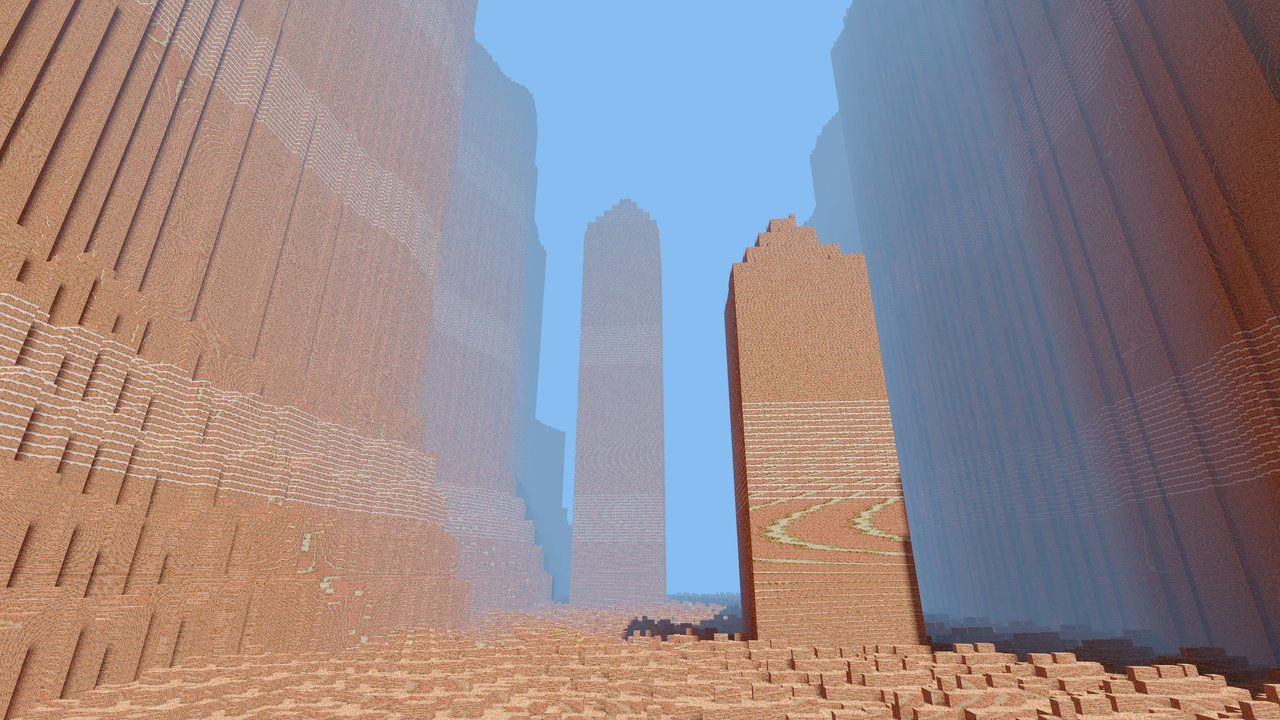
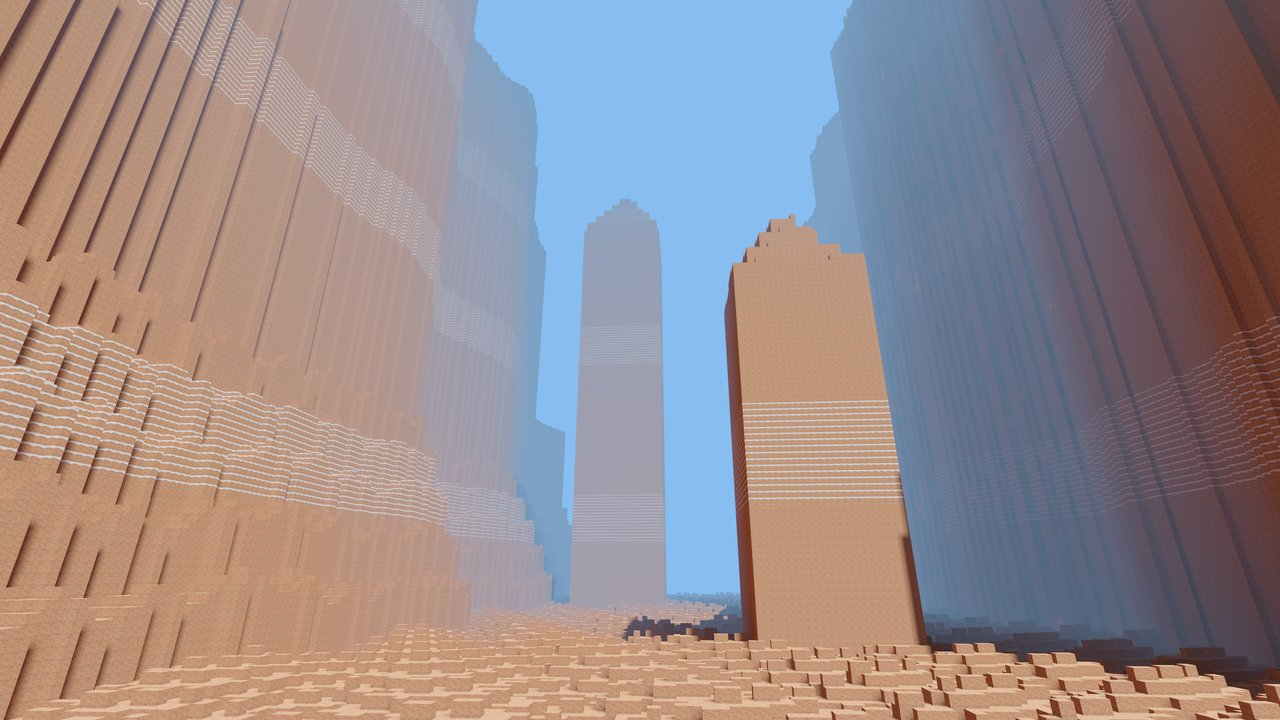
feat(bvw): mipmapped, anisotropic block texture arrays
prepare_texture_array now builds each layer's full mip chain (8-bit RGBA;
sRGB box-filtered in linear light, so distant faces keep their
brightness) and sets 8x anisotropic filtering. Without mips the 256 px
per-face textures aliased into moire and sparkle on anything more than a
few voxels away. It also drops COPY_DST from the texture: Bevy 0.19's
same-descriptor update writes the whole buffer into mip 0, so a reload
must recreate the texture with every level (asteroids-redux 3aa4e1f
found this). texture_array_ready also requires the mip chain, so the
lab's refresh prepares once.

Verification: new unit test (level 0 of every layer unchanged, 3 levels
for 4x4, a black/white checker averages to sRGB 188, idempotent,
COPY_DST removed); BVW lib tests with --include-ignored (8, including the
native material regression); lab tests (34). Canyon, headless 1440p on
the M4: the moire on the floor and walls is gone, frame p50 22.1 -> 21.9
ms, fixed GPU 3.45 -> 3.54 ms. README cave and canyon images
re-captured with mipmaps.

diff --git a/crates/voxel_gi_bvw/src/material.rs b/crates/voxel_gi_bvw/src/material.rs
@@ -7,8 +7,8 @@ use bevy::pbr::{
 };
 use bevy::prelude::*;
 use bevy::render::render_resource::{
-    AsBindGroup, RenderPipelineDescriptor, SpecializedMeshPipelineError, TextureViewDescriptor,
-    TextureViewDimension,
+    AsBindGroup, RenderPipelineDescriptor, SpecializedMeshPipelineError, TextureDataOrder,
+    TextureFormat, TextureUsages, TextureViewDescriptor, TextureViewDimension,
 };
 use bevy::shader::ShaderRef;
 use bevy_voxel_world::rendering::vertex_layout;
@@ -101,8 +101,12 @@ pub fn material_template(
     }
 }
 
+/// Whether `prepare_texture_array` has already prepared `image` for `layers`
+/// (check before mutably borrowing the asset, which would reupload it).
 pub fn texture_array_ready(image: &Image, layers: u32) -> bool {
     image.texture_descriptor.size.depth_or_array_layers == layers
+        && (image.texture_descriptor.mip_level_count > 1
+            || !mipmapped(image.texture_descriptor.format))
         && image
             .texture_view_descriptor
             .as_ref()
@@ -113,6 +117,10 @@ pub fn texture_array_ready(image: &Image, layers: u32) -> bool {
                 && sampler.address_mode_w == ImageAddressMode::Repeat)
 }
 
+/// Reinterprets a vertically stacked image as a `layers`-layer 2D array with
+/// repeat addressing, a full mip chain (8-bit RGBA formats; sRGB averaged in
+/// linear light) and 8x anisotropic filtering, so distant and grazing faces
+/// do not alias.
 pub fn prepare_texture_array(
     image: &mut Image,
     layers: u32,
@@ -142,16 +150,184 @@ pub fn prepare_texture_array(
     descriptor.address_mode_u = ImageAddressMode::Repeat;
     descriptor.address_mode_v = ImageAddressMode::Repeat;
     descriptor.address_mode_w = ImageAddressMode::Repeat;
+    descriptor.set_anisotropic_filter(8);
     image.texture_view_descriptor = Some(TextureViewDescriptor {
         dimension: Some(TextureViewDimension::D2Array),
         ..default()
     });
+    let format = image.texture_descriptor.format;
+    if image.texture_descriptor.mip_level_count == 1 && mipmapped(format) {
+        let size = image.texture_descriptor.size;
+        if let Some((data, levels)) = image.data.as_deref().and_then(|base| {
+            mip_chain(
+                base,
+                size.width,
+                size.height,
+                layers,
+                format == TextureFormat::Rgba8UnormSrgb,
+            )
+        }) {
+            image.data = Some(data);
+            image.data_order = TextureDataOrder::LayerMajor;
+            image.texture_descriptor.mip_level_count = levels;
+            // Bevy 0.19 updates a same-descriptor COPY_DST texture by writing
+            // the whole buffer into mip 0. Without COPY_DST a reload recreates
+            // the texture with every level (wgpu adds COPY_DST for creation).
+            image
+                .texture_descriptor
+                .usage
+                .remove(TextureUsages::COPY_DST);
+        }
+    }
     Ok(())
+}
+
+fn mipmapped(format: TextureFormat) -> bool {
+    matches!(
+        format,
+        TextureFormat::Rgba8Unorm | TextureFormat::Rgba8UnormSrgb
+    )
+}
+
+/// Every layer's full mip chain, layer-major (layer 0's levels, then layer
+/// 1's), box-filtered from level 0; colour in linear light when `srgb`.
+fn mip_chain(
+    base: &[u8],
+    width: u32,
+    height: u32,
+    layers: u32,
+    srgb: bool,
+) -> Option<(Vec<u8>, u32)> {
+    let layer_bytes = width as usize * height as usize * 4;
+    if width == 0 || height == 0 || base.len() != layer_bytes * layers as usize {
+        return None;
+    }
+    let decode: [f32; 256] = std::array::from_fn(|v| {
+        let c = v as f32 / 255.0;
+        if !srgb {
+            c
+        } else if c <= 0.04045 {
+            c / 12.92
+        } else {
+            ((c + 0.055) / 1.055).powf(2.4)
+        }
+    });
+    let encode = |c: f32| {
+        let c = c.clamp(0.0, 1.0);
+        let c = if !srgb {
+            c
+        } else if c <= 0.003_130_8 {
+            c * 12.92
+        } else {
+            1.055 * c.powf(1.0 / 2.4) - 0.055
+        };
+        (c * 255.0 + 0.5) as u8
+    };
+    let levels = width.max(height).ilog2() + 1;
+    let mut out = Vec::with_capacity(base.len() * 4 / 3 + 4 * layers as usize);
+    for layer in base.chunks_exact(layer_bytes) {
+        out.extend_from_slice(layer);
+        let (mut w, mut h) = (width, height);
+        let mut previous = layer.to_vec();
+        while w > 1 || h > 1 {
+            let (nw, nh) = ((w / 2).max(1), (h / 2).max(1));
+            let mut next = vec![0u8; nw as usize * nh as usize * 4];
+            for y in 0..nh {
+                for x in 0..nw {
+                    let texels = [
+                        (2 * x, 2 * y),
+                        (2 * x + 1, 2 * y),
+                        (2 * x, 2 * y + 1),
+                        (2 * x + 1, 2 * y + 1),
+                    ]
+                    .map(|(sx, sy)| ((sx.min(w - 1) + sy.min(h - 1) * w) * 4) as usize);
+                    let at = ((x + y * nw) * 4) as usize;
+                    for channel in 0..4 {
+                        // Alpha is linear coverage in either format.
+                        if channel == 3 || !srgb {
+                            let sum: u32 =
+                                texels.iter().map(|t| previous[t + channel] as u32).sum();
+                            next[at + channel] = ((sum + 2) / 4) as u8;
+                        } else {
+                            let sum: f32 = texels
+                                .iter()
+                                .map(|t| decode[previous[t + channel] as usize])
+                                .sum();
+                            next[at + channel] = encode(sum / 4.0);
+                        }
+                    }
+                }
+            }
+            out.extend_from_slice(&next);
+            previous = next;
+            (w, h) = (nw, nh);
+        }
+    }
+    Some((out, levels))
 }
 
 #[cfg(test)]
 mod tests {
     use super::*;
+
+    #[test]
+    fn texture_array_gets_a_linear_light_mip_chain_and_stays_prepared() {
+        use bevy::asset::RenderAssetUsages;
+        // Four 4x4 layers stacked vertically; layer 2 is a black/white checker.
+        let mut image = Image::new_fill(
+            wgpu::Extent3d {
+                width: 4,
+                height: 16,
+                depth_or_array_layers: 1,
+            },
+            wgpu::TextureDimension::D2,
+            &[0, 0, 0, 255],
+            TextureFormat::Rgba8UnormSrgb,
+            RenderAssetUsages::default(),
+        );
+        let source: Vec<u8> = (0..64u32)
+            .flat_map(|texel| {
+                let (layer, x, y) = (texel / 16, texel % 4, texel / 4 % 4);
+                let v = if layer == 2 {
+                    255 * ((x + y) % 2) as u8
+                } else {
+                    layer as u8 * 60
+                };
+                [v, v, v, 255]
+            })
+            .collect();
+        image.data = Some(source.clone());
+        image
+            .texture_descriptor
+            .usage
+            .insert(TextureUsages::COPY_DST);
+        assert!(!texture_array_ready(&image, 4));
+        prepare_texture_array(&mut image, 4).unwrap();
+        assert!(texture_array_ready(&image, 4));
+        assert_eq!(image.texture_descriptor.mip_level_count, 3);
+        assert!(
+            !image
+                .texture_descriptor
+                .usage
+                .contains(TextureUsages::COPY_DST)
+        );
+        let data = image.data.as_ref().unwrap();
+        let stride = (16 + 4 + 1) * 4;
+        assert_eq!(data.len(), 4 * stride);
+        for layer in 0..4 {
+            // Level 0 of every layer is the original tile.
+            assert_eq!(
+                &data[layer * stride..layer * stride + 64],
+                &source[layer * 64..(layer + 1) * 64]
+            );
+        }
+        // Half black, half white is sRGB 188 in linear light (not 128).
+        let checker_1x1 = &data[2 * stride + 80..2 * stride + 84];
+        assert_eq!(checker_1x1, &[188, 188, 188, 255]);
+        let prepared = image.clone();
+        prepare_texture_array(&mut image, 4).unwrap();
+        assert_eq!(image, prepared, "preparing twice changes nothing");
+    }
 
     #[test]
     fn terrain_shader_composes_with_bevys_real_pbr_modules_without_a_window() {

diff --git a/CHANGELOG.md b/CHANGELOG.md
@@ -34,6 +34,8 @@ The crates share one version. The format follows
 - `voxel_gi_bvw`: `bevy_voxel_world` 0.17 connector: chunk events become page
   events, chunks (including LOD chunks at their stride) are the voxel
   source, and `VoxelTransportMaterial` lights the chunk meshes.
+  `prepare_texture_array` builds the block texture array with a full mip
+  chain (sRGB averaged in linear light) and 8x anisotropic filtering.
 - `voxel_gi_debug`: an opt-in HUD, tuning panel, presentation toggles and
   terminal stats.
 
